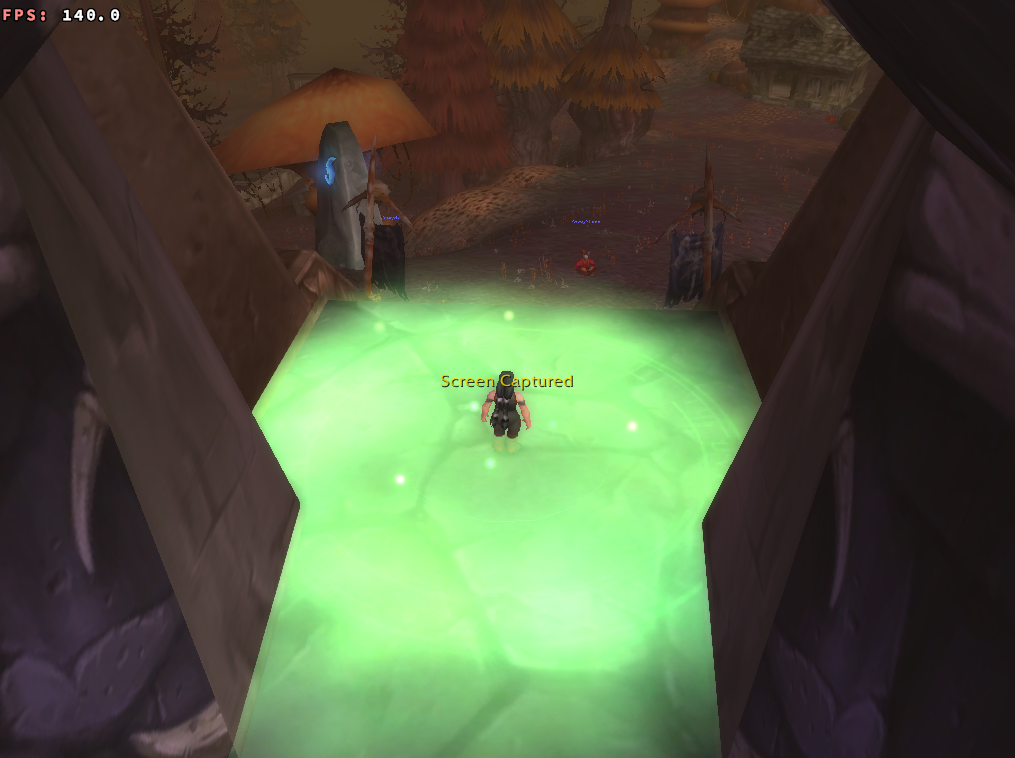
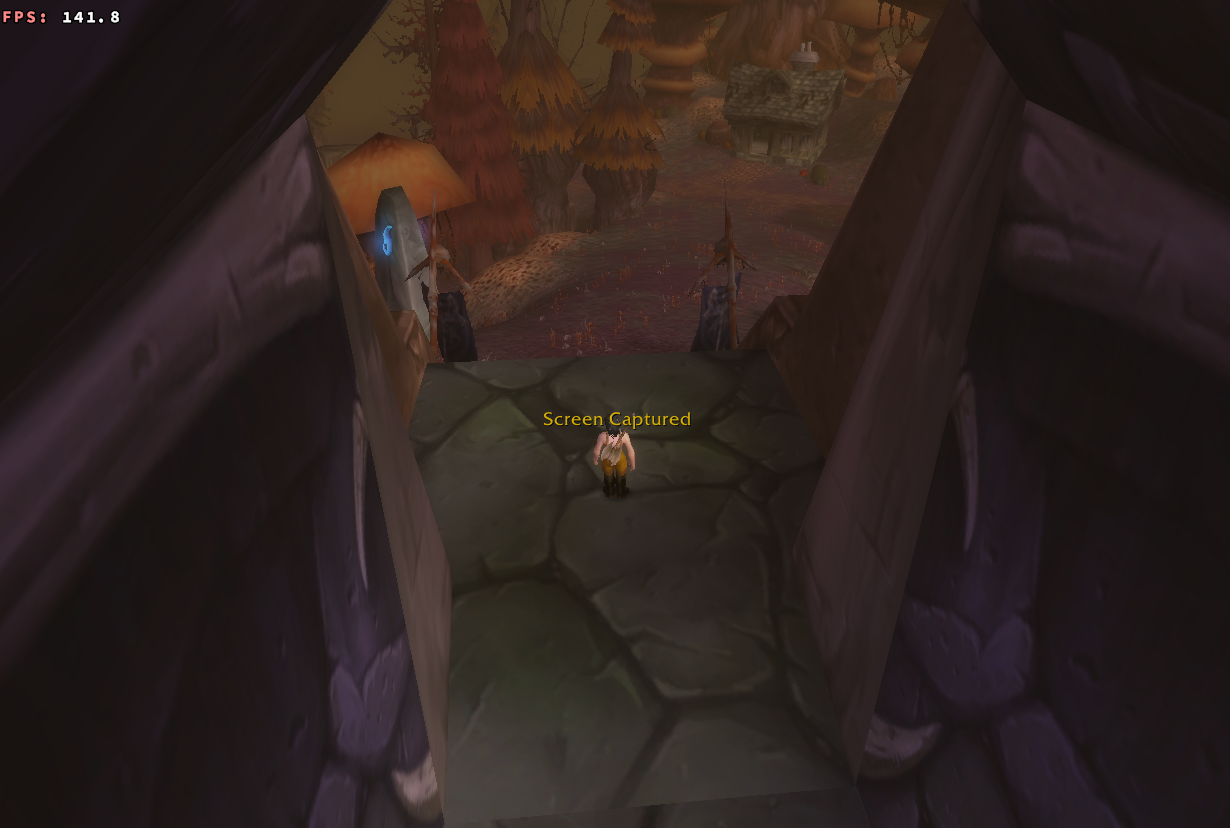
Add Transporter (tele) to Naxx)

diff --git a/README.md b/README.md
@@ -4,15 +4,15 @@ Also see AutoBalance fork https://github.com/SoglaHash/mod-autobalance-naxx25-60
 
 Progress:
 - [x] Allow lvl 60 to enter
-- [x] Add floating Naxx 
+- [x] Add floating Naxx (need to move away outside Plaguewood for it to load)
 - [x] Exit portals TP to EPL
 - [x] Scale instance with autobalancer (may require more tuning)
 - [x] Naxx25 mechanics
 - [x] Change graveyard to EPL
 - [x] Add summoning stone to EPL
 - [x] Add floating Naxx to EPL
+- [x] Add Teleport gameobject in EPL
 - [ ] Integrate scaling script in this repo
-- [ ] Add Teleport to instance, NPC or item to TP
 - [ ] Update Boss Loot to lvl60 (WIP)
 - [ ] Update Trash Loot to lvl60
 - [ ] Add quests to turn in tokens
@@ -30,7 +30,11 @@ Skipping (for now):
 Exit portal to EPl
 ![exit](exit.png)
 Floating naxx object
-![outside](outside.jpg)
+![outside](outside.png)
+transporter naxx object
+![outside](transporter.png)
+transporter naxx object2
+![outside](transporter2.png)
 Chest loot
 ![loot_4h](loot_4h.png)
 Thaddius loot
@@ -419,6 +423,19 @@ item on use:
     CONS: more difficult to implement
 Set epic, itemlvl, turn off boa
 
+.gobject add 181599 blue rune // purple 181600
+icy rune
+186747
+or frozen rune
+181287 
+blue rune 182591 (wall) or 182590 ground
+necro rune stone
+189314
+rune
+188695
+Scourge transporter rune
+
+
 Orb that teles from Sapphiron to Naxx
 ID GUID
 202278 268048
@@ -426,6 +443,8 @@ ID GUID
 29295 Tele DND -> does nothing
 72613 -> teles to Sapphiron (exit) 
 72617 Spphiron Entry: Teles to naxxramas
+ 
+?just add the gameobject to EPL
 
 
 portal NPC in Lights Hope:
